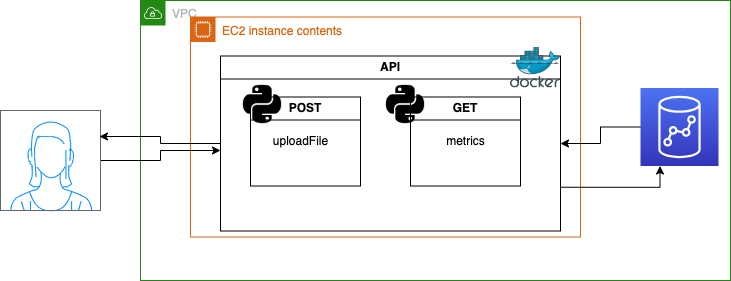
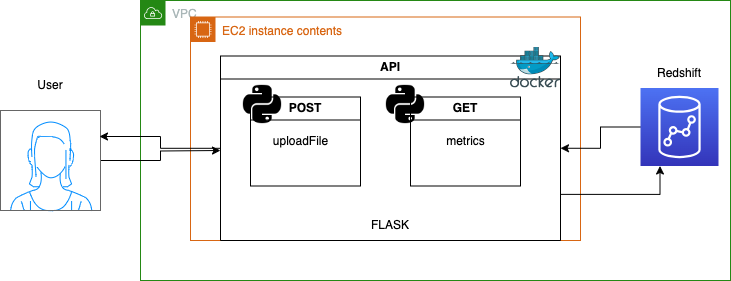
update documentation

diff --git a/README.md b/README.md
@@ -3,12 +3,21 @@
 
 Technical test for Data Engineer role in Globant
 
+#### NOTE: All AWS resources were stopped and deleted for avoid consume in my AWS account
 
 
-
-## Diagram
+## Architecture Diagram
 
 ![alt text](https://raw.githubusercontent.com/giorocar/GlobantCodingChallenge/docs/images/diagram_app.png)
+
+To resolve the challenge was used this stack
+
+API REST: Flask Api a popular python framework used in api creation.
+DATABASE: the database used is AWS Redshift Warehouse service, according to the challenge these need to support big data, so for me these is appropriate in order to take advantage of their scalability, flexibility and compatibility.
+ENDPOINTS: The API REST is developed with Python, Flask API which have 2 endpoints to use
+uploadFile/ to upload the data Challenge 1.
+metrics/ to show insights Challenge 2
+
 ## Repositorio Estructura
 
 ```
@@ -231,4 +240,25 @@ List of ids, name and number of employees hired of each department that hired mo
         },
     ]
 }
+```
+
+## Running App
+
+To run App, run the following command
+
+Endpoint: Upload File
+```
+curl \
+  -F "file=@/path/to/file/jobs.csv" \
+  http://<HOST_NAME>:8000/uploadFile
+```
+
+Endpoint: Metric 1
+```
+  curl --location http://<HOST_NAME>:8000/metrics?query=num_emp_hired_x_job_dpto'
+```
+
+Endpoint: Metric 2
+```
+  curl --location 'http://<HOST_NAME>:8000/metrics?query=list_emp_hired_x_dpto'
 ```
